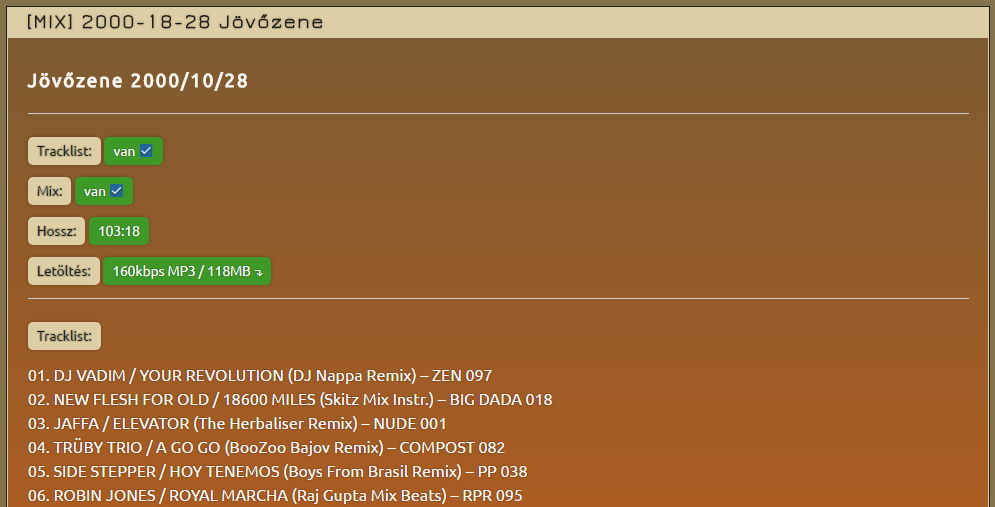
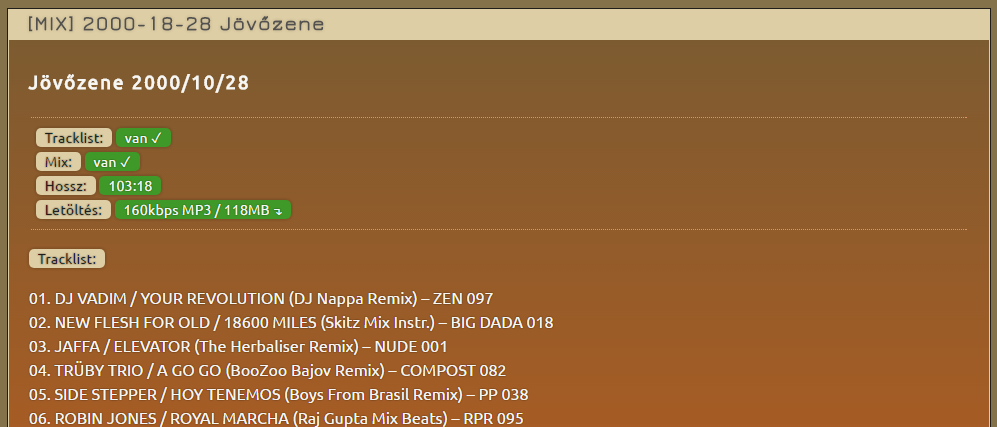
bejegyzes feljec + ikonok torolve

diff --git a/wp-theme/style.css b/wp-theme/style.css
@@ -18,4 +18,4 @@ Underscores is distributed under the terms of the GNU GPL v2 or later.
 
 Normalizing styles have been helped along thanks to the fine work of
 Nicolas Gallagher and Jonathan Neal http://necolas.github.com/normalize.css/
-*/html{font-family:sans-serif;-webkit-text-size-adjust:100%;-ms-text-size-adjust:100%}body{margin:0}article,aside,details,figcaption,figure,footer,header,main,menu,nav,section,summary{display:block}audio,canvas,progress,video{display:inline-block;vertical-align:baseline}audio:not([controls]){display:none;height:0}[hidden],template{display:none}a{background-color:transparent}a:active,a:hover{outline:0}abbr[title]{border-bottom:1px dotted}b,strong{font-weight:bold}dfn{font-style:italic}h1{font-size:2em;margin:0.67em 0}mark{background:#ff0;color:#000}small{font-size:80%}sub,sup{font-size:75%;line-height:0;position:relative;vertical-align:baseline}sup{top:-0.5em}sub{bottom:-0.25em}img{border:0}svg:not(:root){overflow:hidden}figure{margin:1em 40px}hr{box-sizing:content-box;height:0}pre{overflow:auto}code,kbd,pre,samp{font-family:monospace, monospace;font-size:1em}button,input,optgroup,select,textarea{color:inherit;font:inherit;margin:0}button{overflow:visible}button,select{text-transform:none}button,html input[type="button"],input[type="reset"],input[type="submit"]{-webkit-appearance:button;cursor:pointer}button[disabled],html input[disabled]{cursor:default}button::-moz-focus-inner,input::-moz-focus-inner{border:0;padding:0}input{line-height:normal}input[type="checkbox"],input[type="radio"]{box-sizing:border-box;padding:0}input[type="number"]::-webkit-inner-spin-button,input[type="number"]::-webkit-outer-spin-button{height:auto}input[type="search"]::-webkit-search-cancel-button,input[type="search"]::-webkit-search-decoration{-webkit-appearance:none}fieldset{border:1px solid #c0c0c0;margin:0 2px;padding:0.35em 0.625em 0.75em}legend{border:0;padding:0}textarea{overflow:auto}optgroup{font-weight:bold}table{border-collapse:collapse;border-spacing:0}td,th{padding:0}h3{font-family:'Ubuntu', sans-serif;letter-spacing:2px}body,button,input,select,textarea{color:#f6f6f4;font-family:sans-serif;font-size:16px;font-size:1rem;line-height:1.5}.site-title{font-family:'Russo One', sans-serif;font-size:3em;line-height:75px}.site-title a{color:#decea5;text-decoration:none;text-shadow:0 0 10px rgba(79,61,26,0.5),1px 1px 0 #4f3d1a}.site-title a:hover{color:#ece3cc}.site-title a:visited{color:#decea5}.site-description{line-height:1.25;font-size:1.5em;font-family:'Ubuntu', sans-serif;text-shadow:0 0 5px rgba(0,0,0,0.75);color:#ece3cc}.main-navigation{font-size:1.15em;font-family:'Jura', sans-serif;text-align:center;text-shadow:0 0 5px rgba(255,255,255,0.5)}.main-navigation ul a{color:#201e1a;text-shadow:0 0 5px rgba(0,0,0,0.25)}.main-navigation ul :hover>a,.main-navigation ul .focus>a{color:white}.main-navigation li:hover>a,.main-navigation li.focus>a{color:white}.main-navigation a{color:#201e1a;text-decoration:none}.page-header>h1{font-family:'Jura', sans-serif;color:#f6f6f4;letter-spacing:2px;font-size:1em;line-height:1}.title-highlight{text-shadow:0 0 5px #201e1a}.entry-title{font-size:1.25em;font-family:'Jura', sans-serif;color:#201e1a;text-shadow:0 0 5px rgba(0,0,0,0.15);letter-spacing:2px}.entry-title>a{display:block;text-decoration:none;color:#201e1a}.entry-title>a:visited{color:#52514f}.entry-title>a:hover{color:#e35e10}.entry-content p{font-family:'Ubuntu', sans-serif;text-shadow:0 0 2px rgba(0,0,0,0.5)}.entry-content .more-link{color:#52514f;background:#f6f6f4;border-radius:5px;padding:0.25% 1%;font-size:1.15em;font-weight:bolder;font-family:'Jura',sans-serif;text-shadow:none;text-decoration:none;text-shadow:0 0 5px rgba(0,0,0,0.15);transition:.15s;box-shadow:0 0 5px rgba(0,0,0,0.25)}.entry-content .more-link:hover{color:#f6f6f4;background:#e19464}h1,h2,h3,h4,h5,h6{clear:both}p{margin-bottom:1em}dfn,cite,em,i{font-style:italic}blockquote{margin:0 1.5em}address{margin:0 0 1.5em}pre{background:#eee;font-family:"Courier 10 Pitch",Courier,monospace;font-size:15px;font-size:.9375rem;line-height:1.6;margin-bottom:1.6em;max-width:100%;overflow:auto;padding:1.6em}code,kbd,tt,var{font-family:Monaco,Consolas,"Andale Mono","DejaVu Sans Mono",monospace;font-size:15px;font-size:.9375rem}abbr,acronym{border-bottom:1px dotted #666;cursor:help}mark,ins{background:#fff9c0;text-decoration:none}big{font-size:125%}html{box-sizing:border-box}*,*:before,*:after{box-sizing:inherit}body{background:#84734a}blockquote,q{quotes:"" ""}blockquote:before,blockquote:after,q:before,q:after{content:""}hr{background-color:#ccc;border:0;height:1px;margin-bottom:1.5em}ul,ol{margin:0 0 1.5em 3em}ul{list-style:disc}ol{list-style:decimal}li>ul,li>ol{margin-bottom:0;margin-left:1.5em}dt{font-weight:bold}dd{margin:0 1.5em 1.5em}img{height:auto;max-width:100%}figure{margin:1em 0}table{margin:0 0 1.5em;width:100%}button,input[type="button"],input[type="reset"]{border:1px solid;border-color:#ccc #ccc #bbb;border-radius:3px;background:#e6e6e6;color:rgba(0,0,0,0.8);font-size:12px;font-size:.75rem;line-height:1;padding:.6em 1em .4em}button:hover,input[type="button"]:hover,input[type="reset"]:hover{border-color:#ccc #bbb #aaa}button:active,button:focus,input[type="button"]:active,input[type="button"]:focus,input[type="reset"]:active,input[type="reset"]:focus{border-color:#aaa #bbb #bbb}input[type="submit"]{padding:1%;font-size:19.2px;font-size:1.2rem;transition:.15s;line-height:1;color:#4f3d1a;font-weight:bold;font-family:'Jura', sans-serif;letter-spacing:2px}input[type="submit"]:hover{color:white;background:#635128;border-color:#635128}input[type="submit"]:active,input[type="submit"]:focus{background:#84734a;border-color:#aaa #bbb #bbb;outline:none}input[type="text"],input[type="email"],input[type="url"],input[type="password"],input[type="number"],input[type="tel"],input[type="range"],input[type="date"],input[type="month"],input[type="week"],input[type="time"],input[type="datetime"],input[type="datetime-local"],input[type="color"],textarea{color:#666;border:1px solid #ccc;border-radius:3px;padding:3px}input[type="text"]:focus,input[type="email"]:focus,input[type="url"]:focus,input[type="password"]:focus,input[type="number"]:focus,input[type="tel"]:focus,input[type="range"]:focus,input[type="date"]:focus,input[type="month"]:focus,input[type="week"]:focus,input[type="time"]:focus,input[type="datetime"]:focus,input[type="datetime-local"]:focus,input[type="color"]:focus,textarea:focus{color:#111}select{border:1px solid #ccc}textarea{width:100%}.widget_search{margin:0;padding:0;text-align:center}.widget_search .search-form{padding:2%;margin:0}.widget_search .search-field{width:100%;padding:1%;background:#f6f6f4;border:3px solid #decea5;border-top-left-radius:5px;border-top-right-radius:5px;color:#e35e10;font-size:1em;letter-spacing:2px;font-family:'Jura', sans-serif;font-weight:bolder;text-shadow:0 0 5px rgba(0,0,0,0.15);text-align:center}.widget_search .search-submit{width:100%;background:#decea5;border:3px solid #decea5;border-bottom-left-radius:5px;border-bottom-right-radius:5px}a{color:#a56328}a:visited{color:purple}a:hover,a:focus,a:active{color:#191970}a:focus{outline:thin dotted}a:hover,a:active{outline:0}.main-navigation{clear:both;float:none;display:table;width:100%;background:rgba(79,61,26,0.15)}.main-navigation ul{display:none;width:100%;margin:0 auto;padding:0;list-style:none}.main-navigation ul ul{float:left;position:absolute;top:1.5em;left:-999em;z-index:99999}.main-navigation ul ul ul{left:-999em;top:0}.main-navigation ul ul li{background:#ECE3CC;border-radius:0;transition:.15s}.main-navigation ul ul li:first-child{border-top-right-radius:5px}.main-navigation ul ul li:last-child{border-bottom-left-radius:5px;border-bottom-right-radius:5px;border-bottom:1px solid #4f3d1a}.main-navigation ul ul li:hover>ul,.main-navigation ul ul li.focus>ul{left:100%}.main-navigation ul ul a{display:block;width:200px;transition:.15s}.main-navigation ul li:hover>ul,.main-navigation ul li.focus>ul{left:-1px}.main-navigation li{float:none;position:relative;display:inline-table;padding:0 1%;margin:0 0.5%;background:#decea5;border-top-left-radius:5px;border-top-right-radius:5px;border-top:1px solid rgba(190,183,172,0.25);transition:.15s}.main-navigation li:hover{background:#e35e10;border-top:1px solid rgba(190,183,172,0.25)}.main-navigation a{display:block}.post-navigation{padding:1%;font-size:1.25em;font-family:'Jura', sans-serif;background:#9f8a65}.post-navigation a{margin:auto;text-shadow:0 0 5px rba(0, 0, 0, 0.5);text-decoration:none;text-align:center;width:98%;background:#84734a;display:block;color:white}.post-navigation a:hover{background:#a56328}.menu-toggle,.main-navigation.toggled ul{display:block}@media screen and (min-width: 37.5em){.menu-toggle{display:none}.main-navigation ul{display:table}}.site-main .comment-navigation,.site-main .posts-navigation,.site-main .post-navigation{margin:0 0 1.5em;overflow:hidden}.comment-navigation .nav-previous,.posts-navigation .nav-previous,.post-navigation .nav-previous{float:left;width:50%}.comment-navigation .nav-next,.posts-navigation .nav-next,.post-navigation .nav-next{float:right;text-align:right;width:50%}.screen-reader-text{clip:rect(1px, 1px, 1px, 1px);position:absolute !important;height:1px;width:1px;overflow:hidden}.screen-reader-text:focus{background-color:#f1f1f1;border-radius:3px;box-shadow:0 0 2px 2px rgba(0,0,0,0.6);clip:auto !important;color:#21759b;display:block;font-size:14px;font-size:.875rem;font-weight:bold;height:auto;left:5px;line-height:normal;padding:15px 23px 14px;text-decoration:none;top:5px;width:auto;z-index:100000}#content[tabindex="-1"]:focus{outline:0}.alignleft{display:inline;float:left;margin-right:1.5em}.alignright{display:inline;float:right;margin-left:1.5em}.aligncenter{clear:both;display:block;margin-left:auto;margin-right:auto}.clear:before,.clear:after,.entry-content:before,.entry-content:after,.comment-content:before,.comment-content:after,.site-header:before,.site-header:after,.site-content:before,.site-content:after,.site-footer:before,.site-footer:after{content:"";display:table;table-layout:fixed}.clear:after,.entry-content:after,.comment-content:after,.site-header:after,.site-content:after,.site-footer:after{clear:both}.widget{margin:0;font-family:'Ubuntu', sans-serif;color:white;text-shadow:0 0 2px rgba(0,0,0,0.5)}.widget a{color:white;text-decoration:none}.widget select{max-width:100%}.widget ul{padding:0;margin:0;list-style:none}.widget ul li{border-bottom:1px dotted #decea5}.widget ul li:first-child{border-top:1px dotted #decea5}.widget ul li a{padding-left:2%;display:block;transition:.15s}.widget ul li a:hover{background:#e35e10}.widget-title{background:#decea5;color:#201e1a;border-top:1px dotted #9c8c63;border-bottom:1px dotted #9c8c63;text-align:center;text-shadow:0 0 5px rgba(32,30,26,0.25);font-family:'Jura', sans-serif;font-size:1.15em}.widget-area{margin-right:0.5%;margin-top:0.75%;width:24.5% !important}@media screen and (min-width: 1280px){.site-content{width:70%;margin:auto}}.content-area{float:left;margin:0 -25% 0 0;width:100%}.site-main{margin:0 25% 0 0}.site-content .widget-area{float:right;overflow:hidden;width:25%;background:repeating-linear-gradient(90deg, #9c8c63 2px, #9c8463 6px);border:1px solid #decea5}.site-footer{clear:both;width:100%;padding:1%;background:rgba(0,0,0,0.05);color:#f6f6f4;text-align:center;text-shadow:0 0 5px rgba(0,0,0,0.5);font-family:'Jura', sans-serif;font-size:1.15em}.site-footer a{padding:0.25% 0.5%;color:#ece3cc;text-decoration:none}.site-footer a:hover{background:#e35e10}.site-header{border-bottom:1px solid #decea5;box-shadow:0 1px 0 #4f3d1a;background:#84734a url(corsica-crop-h360.jpg) fixed no-repeat center 0}.site-branding{height:250px;text-align:center}.site-title{margin:0;padding:0;background:linear-gradient(to right, transparent, rgba(132,115,74,0.5), transparent)}.site-title a{width:100%;display:block;padding:0 2%;background:linear-gradient(to right, transparent, rgba(79,61,26,0.25), transparent);transition:.25s}.site-title a:hover{background:rgba(227,94,16,0.75)}.site-description{margin:0;padding:0;background:rgba(79,61,26,0.15)}.page-header{border-top:1px dotted #decea5;border-bottom:1px dotted #decea5;margin-bottom:1%}.page-header>h1{padding:0}.title-highlight{margin-top:0.1%;margin-bottom:0.1%;padding:0.5%;background:#e35e10}.entry-title{margin:0;padding-left:2%;background:transparent}.entry-summary{margin:0;color:#201e1a}.content-area{margin-top:0.75%;padding-left:0.5%;padding-right:1%}.entry-content{margin:0 !important;padding:1% 2%;background:linear-gradient(to bottom, #7d5b31, #e35e10);border:1px solid #decea5}.hentry{background:#decea5;border:1px solid #201e1a}.text-highlight{font-size:0.85em;padding:0.65% 1%;margin-bottom:1%;border-radius:5px;box-shadow:0 0 5px rgba(0,0,0,0.25)}.hi-lite-title{color:#201e1a;background:#decea5}.hi-lite-content{background:#decea5;color:#f6f6f4}.hi-lite-no{background:#B01515}.hi-lite-yes{background:#3F9928}.letoltes{text-decoration:none;color:#201e1a}.sticky{display:block}.hentry{margin:0 0 1.5em}.byline,.updated:not(.published){display:none}.single .byline,.group-blog .byline{display:inline}.page-content,.entry-content,.entry-summary{margin:1.5em 0 0}.page-links{clear:both;margin:0 0 1.5em}.comment-content a{word-wrap:break-word}.bypostauthor{display:block}.infinite-scroll .posts-navigation,.infinite-scroll.neverending .site-footer{display:none}.infinity-end.neverending .site-footer{display:block}.page-content .wp-smiley,.entry-content .wp-smiley,.comment-content .wp-smiley{border:none;margin-bottom:0;margin-top:0;padding:0}embed,iframe,object{max-width:100%}.wp-caption{margin-bottom:1.5em;max-width:100%}.wp-caption img[class*="wp-image-"]{display:block;margin-left:auto;margin-right:auto}.wp-caption .wp-caption-text{margin:0.8075em 0}.wp-caption-text{text-align:center}.gallery{margin-bottom:1.5em}.gallery-item{display:inline-block;text-align:center;vertical-align:top;width:100%}.gallery-columns-2 .gallery-item{max-width:50%}.gallery-columns-3 .gallery-item{max-width:33.33%}.gallery-columns-4 .gallery-item{max-width:25%}.gallery-columns-5 .gallery-item{max-width:20%}.gallery-columns-6 .gallery-item{max-width:16.66%}.gallery-columns-7 .gallery-item{max-width:14.28%}.gallery-columns-8 .gallery-item{max-width:12.5%}.gallery-columns-9 .gallery-item{max-width:11.11%}.gallery-caption{display:block}
+*/html{font-family:sans-serif;-webkit-text-size-adjust:100%;-ms-text-size-adjust:100%}body{margin:0}article,aside,details,figcaption,figure,footer,header,main,menu,nav,section,summary{display:block}audio,canvas,progress,video{display:inline-block;vertical-align:baseline}audio:not([controls]){display:none;height:0}[hidden],template{display:none}a{background-color:transparent}a:active,a:hover{outline:0}abbr[title]{border-bottom:1px dotted}b,strong{font-weight:bold}dfn{font-style:italic}h1{font-size:2em;margin:0.67em 0}mark{background:#ff0;color:#000}small{font-size:80%}sub,sup{font-size:75%;line-height:0;position:relative;vertical-align:baseline}sup{top:-0.5em}sub{bottom:-0.25em}img{border:0}svg:not(:root){overflow:hidden}figure{margin:1em 40px}hr{box-sizing:content-box;height:0}pre{overflow:auto}code,kbd,pre,samp{font-family:monospace, monospace;font-size:1em}button,input,optgroup,select,textarea{color:inherit;font:inherit;margin:0}button{overflow:visible}button,select{text-transform:none}button,html input[type="button"],input[type="reset"],input[type="submit"]{-webkit-appearance:button;cursor:pointer}button[disabled],html input[disabled]{cursor:default}button::-moz-focus-inner,input::-moz-focus-inner{border:0;padding:0}input{line-height:normal}input[type="checkbox"],input[type="radio"]{box-sizing:border-box;padding:0}input[type="number"]::-webkit-inner-spin-button,input[type="number"]::-webkit-outer-spin-button{height:auto}input[type="search"]::-webkit-search-cancel-button,input[type="search"]::-webkit-search-decoration{-webkit-appearance:none}fieldset{border:1px solid #c0c0c0;margin:0 2px;padding:0.35em 0.625em 0.75em}legend{border:0;padding:0}textarea{overflow:auto}optgroup{font-weight:bold}table{border-collapse:collapse;border-spacing:0}td,th{padding:0}h3{font-family:'Ubuntu', sans-serif;letter-spacing:2px}body,button,input,select,textarea{color:#f6f6f4;font-family:sans-serif;font-size:16px;font-size:1rem;line-height:1.5}.site-title{font-family:'Russo One', sans-serif;font-size:3em;line-height:75px}.site-title a{color:#decea5;text-decoration:none;text-shadow:0 0 10px rgba(79,61,26,0.5),1px 1px 0 #4f3d1a}.site-title a:hover{color:#ece3cc}.site-title a:visited{color:#decea5}.site-description{line-height:1.25;font-size:1.5em;font-family:'Ubuntu', sans-serif;text-shadow:0 0 5px rgba(0,0,0,0.75);color:#ece3cc}.main-navigation{font-size:1.15em;font-family:'Jura', sans-serif;text-align:center;text-shadow:0 0 5px rgba(255,255,255,0.5)}.main-navigation ul a{color:#201e1a;text-shadow:0 0 5px rgba(0,0,0,0.25)}.main-navigation ul :hover>a,.main-navigation ul .focus>a{color:white}.main-navigation li:hover>a,.main-navigation li.focus>a{color:white}.main-navigation a{color:#201e1a;text-decoration:none}.page-header>h1{font-family:'Jura', sans-serif;color:#f6f6f4;letter-spacing:2px;font-size:1em;line-height:1}.title-highlight{text-shadow:0 0 5px #201e1a}.entry-title{font-size:1.25em;font-family:'Jura', sans-serif;color:#201e1a;text-shadow:0 0 5px rgba(0,0,0,0.15);letter-spacing:2px}.entry-title>a{display:block;text-decoration:none;color:#201e1a}.entry-title>a:visited{color:#52514f}.entry-title>a:hover{color:#e35e10}.entry-content p{font-family:'Ubuntu', sans-serif;text-shadow:0 0 2px rgba(0,0,0,0.5)}.entry-content .more-link{color:#52514f;background:#f6f6f4;border-radius:5px;padding:0.25% 1%;font-size:1.15em;font-weight:bolder;font-family:'Jura',sans-serif;text-shadow:none;text-decoration:none;text-shadow:0 0 5px rgba(0,0,0,0.15);transition:.15s;box-shadow:0 0 5px rgba(0,0,0,0.25)}.entry-content .more-link:hover{color:#f6f6f4;background:#e19464}h1,h2,h3,h4,h5,h6{clear:both}p{margin-bottom:1em}dfn,cite,em,i{font-style:italic}blockquote{margin:0 1.5em}address{margin:0 0 1.5em}pre{background:#eee;font-family:"Courier 10 Pitch",Courier,monospace;font-size:15px;font-size:.9375rem;line-height:1.6;margin-bottom:1.6em;max-width:100%;overflow:auto;padding:1.6em}code,kbd,tt,var{font-family:Monaco,Consolas,"Andale Mono","DejaVu Sans Mono",monospace;font-size:15px;font-size:.9375rem}abbr,acronym{border-bottom:1px dotted #666;cursor:help}mark,ins{background:#fff9c0;text-decoration:none}big{font-size:125%}html{box-sizing:border-box}*,*:before,*:after{box-sizing:inherit}body{background:#84734a}blockquote,q{quotes:"" ""}blockquote:before,blockquote:after,q:before,q:after{content:""}hr{background-color:transparent;border:0;border-bottom:1px dotted #e19464;height:1px;margin:0.25%}ul,ol{margin:0 0 1.5em 3em}ul{list-style:disc}ol{list-style:decimal}li>ul,li>ol{margin-bottom:0;margin-left:1.5em}dt{font-weight:bold}dd{margin:0 1.5em 1.5em}img{height:auto;max-width:100%}figure{margin:1em 0}table{margin:0 0 1.5em;width:100%}button,input[type="button"],input[type="reset"]{border:1px solid;border-color:#ccc #ccc #bbb;border-radius:3px;background:#e6e6e6;color:rgba(0,0,0,0.8);font-size:12px;font-size:.75rem;line-height:1;padding:.6em 1em .4em}button:hover,input[type="button"]:hover,input[type="reset"]:hover{border-color:#ccc #bbb #aaa}button:active,button:focus,input[type="button"]:active,input[type="button"]:focus,input[type="reset"]:active,input[type="reset"]:focus{border-color:#aaa #bbb #bbb}input[type="submit"]{padding:1%;font-size:19.2px;font-size:1.2rem;transition:.15s;line-height:1;color:#4f3d1a;font-weight:bold;font-family:'Jura', sans-serif;letter-spacing:2px}input[type="submit"]:hover{color:white;background:#635128;border-color:#635128}input[type="submit"]:active,input[type="submit"]:focus{background:#84734a;border-color:#aaa #bbb #bbb;outline:none}input[type="text"],input[type="email"],input[type="url"],input[type="password"],input[type="number"],input[type="tel"],input[type="range"],input[type="date"],input[type="month"],input[type="week"],input[type="time"],input[type="datetime"],input[type="datetime-local"],input[type="color"],textarea{color:#666;border:1px solid #ccc;border-radius:3px;padding:3px}input[type="text"]:focus,input[type="email"]:focus,input[type="url"]:focus,input[type="password"]:focus,input[type="number"]:focus,input[type="tel"]:focus,input[type="range"]:focus,input[type="date"]:focus,input[type="month"]:focus,input[type="week"]:focus,input[type="time"]:focus,input[type="datetime"]:focus,input[type="datetime-local"]:focus,input[type="color"]:focus,textarea:focus{color:#111}select{border:1px solid #ccc}textarea{width:100%}.widget_search{margin:0;padding:0;text-align:center}.widget_search .search-form{padding:2%;margin:0}.widget_search .search-field{width:100%;padding:1%;background:#f6f6f4;border:3px solid #decea5;border-top-left-radius:5px;border-top-right-radius:5px;color:#e35e10;font-size:1em;letter-spacing:2px;font-family:'Jura', sans-serif;font-weight:bolder;text-shadow:0 0 5px rgba(0,0,0,0.15);text-align:center}.widget_search .search-submit{width:100%;background:#decea5;border:3px solid #decea5;border-bottom-left-radius:5px;border-bottom-right-radius:5px}a{color:#a56328}a:visited{color:purple}a:hover,a:focus,a:active{color:#191970}a:focus{outline:thin dotted}a:hover,a:active{outline:0}.main-navigation{clear:both;float:none;display:table;width:100%;background:rgba(79,61,26,0.15)}.main-navigation ul{display:none;width:100%;margin:0 auto;padding:0;list-style:none}.main-navigation ul ul{float:left;position:absolute;top:1.5em;left:-999em;z-index:99999}.main-navigation ul ul ul{left:-999em;top:0}.main-navigation ul ul li{background:#ECE3CC;border-radius:0;transition:.15s}.main-navigation ul ul li:first-child{border-top-right-radius:5px}.main-navigation ul ul li:last-child{border-bottom-left-radius:5px;border-bottom-right-radius:5px;border-bottom:1px solid #4f3d1a}.main-navigation ul ul li:hover>ul,.main-navigation ul ul li.focus>ul{left:100%}.main-navigation ul ul a{display:block;width:200px;transition:.15s}.main-navigation ul li:hover>ul,.main-navigation ul li.focus>ul{left:-1px}.main-navigation li{float:none;position:relative;display:inline-table;padding:0 1%;margin:0 0.5%;background:#decea5;border-top-left-radius:5px;border-top-right-radius:5px;border-top:1px solid rgba(190,183,172,0.25);transition:.15s}.main-navigation li:hover{background:#e35e10;border-top:1px solid rgba(190,183,172,0.25)}.main-navigation a{display:block}.post-navigation{padding:1%;font-size:1.25em;font-family:'Jura', sans-serif;background:#9f8a65}.post-navigation a{margin:auto;text-shadow:0 0 5px rba(0, 0, 0, 0.5);text-decoration:none;text-align:center;width:98%;background:#84734a;display:block;color:white}.post-navigation a:hover{background:#a56328}.menu-toggle,.main-navigation.toggled ul{display:block}@media screen and (min-width: 37.5em){.menu-toggle{display:none}.main-navigation ul{display:table}}.site-main .comment-navigation,.site-main .posts-navigation,.site-main .post-navigation{margin:0 0 1.5em;overflow:hidden}.comment-navigation .nav-previous,.posts-navigation .nav-previous,.post-navigation .nav-previous{float:left;width:50%}.comment-navigation .nav-next,.posts-navigation .nav-next,.post-navigation .nav-next{float:right;text-align:right;width:50%}.screen-reader-text{clip:rect(1px, 1px, 1px, 1px);position:absolute !important;height:1px;width:1px;overflow:hidden}.screen-reader-text:focus{background-color:#f1f1f1;border-radius:3px;box-shadow:0 0 2px 2px rgba(0,0,0,0.6);clip:auto !important;color:#21759b;display:block;font-size:14px;font-size:.875rem;font-weight:bold;height:auto;left:5px;line-height:normal;padding:15px 23px 14px;text-decoration:none;top:5px;width:auto;z-index:100000}#content[tabindex="-1"]:focus{outline:0}.alignleft{display:inline;float:left;margin-right:1.5em}.alignright{display:inline;float:right;margin-left:1.5em}.aligncenter{clear:both;display:block;margin-left:auto;margin-right:auto}.clear:before,.clear:after,.entry-content:before,.entry-content:after,.comment-content:before,.comment-content:after,.site-header:before,.site-header:after,.site-content:before,.site-content:after,.site-footer:before,.site-footer:after{content:"";display:table;table-layout:fixed}.clear:after,.entry-content:after,.comment-content:after,.site-header:after,.site-content:after,.site-footer:after{clear:both}.widget{margin:0;font-family:'Ubuntu', sans-serif;color:white;text-shadow:0 0 2px rgba(0,0,0,0.5)}.widget a{color:white;text-decoration:none}.widget select{max-width:100%}.widget ul{padding:0;margin:0;list-style:none}.widget ul li{border-bottom:1px dotted #decea5}.widget ul li:first-child{border-top:1px dotted #decea5}.widget ul li a{padding-left:2%;display:block;transition:.15s}.widget ul li a:hover{background:#e35e10}.widget-title{background:#decea5;color:#201e1a;border-top:1px dotted #9c8c63;border-bottom:1px dotted #9c8c63;text-align:center;text-shadow:0 0 5px rgba(32,30,26,0.25);font-family:'Jura', sans-serif;font-size:1.15em}.widget-area{margin-right:0.5%;margin-top:0.75%;width:24.5% !important}@media screen and (min-width: 1280px){.site-content{width:70%;margin:auto}}.content-area{float:left;margin:0 -25% 0 0;width:100%}.site-main{margin:0 25% 0 0}.site-content .widget-area{float:right;overflow:hidden;width:25%;background:repeating-linear-gradient(90deg, #9c8c63 2px, #9c8463 6px);border:1px solid #decea5}.site-footer{clear:both;width:100%;padding:1%;background:rgba(0,0,0,0.05);color:#f6f6f4;text-align:center;text-shadow:0 0 5px rgba(0,0,0,0.5);font-family:'Jura', sans-serif;font-size:1.15em}.site-footer a{padding:0.25% 0.5%;color:#ece3cc;text-decoration:none}.site-footer a:hover{background:#e35e10}.site-header{border-bottom:1px solid #decea5;box-shadow:0 1px 0 #4f3d1a;background:#84734a url(./images/corsica-crop-h360.jpg) fixed no-repeat center 0}.site-branding{height:250px;text-align:center}.site-title{margin:0;padding:0;background:linear-gradient(to right, transparent, rgba(132,115,74,0.5), transparent)}.site-title a{width:100%;display:block;padding:0 2%;background:linear-gradient(to right, transparent, rgba(79,61,26,0.25), transparent);transition:.25s}.site-title a:hover{background:rgba(227,94,16,0.75)}.site-description{margin:0;padding:0;background:rgba(79,61,26,0.15)}.page-header{border-top:1px dotted #decea5;border-bottom:1px dotted #decea5;margin-bottom:1%}.page-header>h1{padding:0}.title-highlight{margin-top:0.1%;margin-bottom:0.1%;padding:0.5%;background:#e35e10}.entry-title{margin:0;padding-left:2%;background:transparent}.entry-summary{margin:0;color:#201e1a}.content-area{margin-top:0.75%;padding-left:0.5%;padding-right:1%}.entry-content{margin:0 !important;padding:1% 2%;background:linear-gradient(to bottom, #7d5b31, #e35e10);border:1px solid #decea5}.hentry{background:#decea5;border:1px solid #201e1a}.entry-header-info{margin:0.75%}.text-highlight{font-size:0.9em;padding:0.2% 1%;border-radius:5px;box-shadow:0 0 5px rgba(0,0,0,0.25)}.hi-lite-title{color:#201e1a;background:#decea5}.hi-lite-content{background:#decea5;color:#f6f6f4}.hi-lite-no{background:#B01515}.hi-lite-yes{background:#3F9928}.letoltes{text-decoration:none;color:#201e1a}.sticky{display:block}.hentry{margin:0 0 1.5em}.byline,.updated:not(.published){display:none}.single .byline,.group-blog .byline{display:inline}.page-content,.entry-content,.entry-summary{margin:1.5em 0 0}.page-links{clear:both;margin:0 0 1.5em}.comment-content a{word-wrap:break-word}.bypostauthor{display:block}.infinite-scroll .posts-navigation,.infinite-scroll.neverending .site-footer{display:none}.infinity-end.neverending .site-footer{display:block}.page-content .wp-smiley,.entry-content .wp-smiley,.comment-content .wp-smiley{border:none;margin-bottom:0;margin-top:0;padding:0}embed,iframe,object{max-width:100%}.wp-caption{margin-bottom:1.5em;max-width:100%}.wp-caption img[class*="wp-image-"]{display:block;margin-left:auto;margin-right:auto}.wp-caption .wp-caption-text{margin:0.8075em 0}.wp-caption-text{text-align:center}.gallery{margin-bottom:1.5em}.gallery-item{display:inline-block;text-align:center;vertical-align:top;width:100%}.gallery-columns-2 .gallery-item{max-width:50%}.gallery-columns-3 .gallery-item{max-width:33.33%}.gallery-columns-4 .gallery-item{max-width:25%}.gallery-columns-5 .gallery-item{max-width:20%}.gallery-columns-6 .gallery-item{max-width:16.66%}.gallery-columns-7 .gallery-item{max-width:14.28%}.gallery-columns-8 .gallery-item{max-width:12.5%}.gallery-columns-9 .gallery-item{max-width:11.11%}.gallery-caption{display:block}

diff --git a/wp-theme/sass/layout/_content-sidebar.scss b/wp-theme/sass/layout/_content-sidebar.scss
@@ -62,7 +62,7 @@
   box-shadow: 0 1px 0 rgb(79,61,26);
   background:
     rgb(132,115,74)
-    url(corsica-crop-h360.jpg) fixed no-repeat center 0;
+    url(./images/corsica-crop-h360.jpg) fixed no-repeat center 0;
   }
 
 .site-branding {
@@ -156,6 +156,7 @@
     rgb(125,91,49),
     rgb(227,94,16));
   border: 1px solid rgb(222,206,165);
+  
   }
 
 .hentry {
@@ -163,10 +164,14 @@
   border: 1px solid rgb(32,30,26);
   }
 
+.entry-header-info {
+  margin: 0.75%;
+}
+
 .text-highlight {
-  font-size: 0.85em;
-  padding: 0.65% 1%;
-  margin-bottom: 1%;
+  font-size: 0.9em;
+  //font-weight: bolder;
+  padding: 0.2% 1%;
   border-radius: 5px;
   box-shadow: 0 0 5px rgba(0,0,0,0.25);
   }

diff --git a/wp-theme/sass/elements/_elements.scss b/wp-theme/sass/elements/_elements.scss
@@ -22,10 +22,11 @@ blockquote, q {
 }
 
 hr {
-	background-color: $color__background-hr;
-	border: 0;
+	background-color: transparent;
+  border: 0;
+	border-bottom: 1px dotted $orange-light;
 	height: 1px;
-	margin-bottom: 1.5em;
+	margin: 0.25%;
 }
 
 @import "lists";

diff --git a/entry-header-template.md b/entry-header-template.md
@@ -28,6 +28,8 @@ A bejegyzés címét H3 tag-ek közé tegyük.
 <h3>Bejegyzes cime</h3>
 
 <hr />
+
+<p class="entry-header-info">
 ```
 
 ---
@@ -42,14 +44,14 @@ a)
 
 ``` HTML
 
-<p><span class="text-highlight hi-lite-title">Tracklist:</span> <span class="text-highlight hi-lite-content hi-lite-yes">van &#9745;</span></p>
+<span class="text-highlight hi-lite-title">Tracklist:</span> <span class="text-highlight hi-lite-content hi-lite-yes">van &#10003;</span>
 
 ```
 
 b)
 
 ``` HTML
-<p><span class="text-highlight hi-lite-title">Tracklist:</span> <span class="text-highlight hi-lite-content hi-lite-no">nincs</span></p>
+<span class="text-highlight hi-lite-title">Tracklist:</span> <span class="text-highlight hi-lite-content hi-lite-no">nincs &#10008;</span>
 ```
 
 ---
@@ -63,24 +65,24 @@ b)
 a) Ha van elérhető mix, akkor írjuk be a **hosszát**, illesszük be a **fájl linkjét**, majd töltsük ki a **mintavételt**, **formátumot** és a **méretét** a fájlnak. A hosszt szimpla 'perc:másodperc' alapon adjuk meg. Mintavétel, formátum és fájlméret a következőképp néz ki: `128kbps MP3 / 118MB`.
 
 ``` HTML
-<p><span class="text-highlight hi-lite-title">Mix:</span> <span class="text-highlight hi-lite-content hi-lite-yes">van &#9745;</span></p>
+<span class="text-highlight hi-lite-title">Mix:</span> <span class="text-highlight hi-lite-content hi-lite-yes">van &#10003;</span>
 
-<p><span class="text-highlight hi-lite-title">Hossz:</span> <span class="text-highlight hi-lite-content hi-lite-yes">?</span></p>
+<span class="text-highlight hi-lite-title">Hossz:</span> <span class="text-highlight hi-lite-content hi-lite-yes">?</span>
 
-<p><span class="text-highlight hi-lite-title">Letöltés:</span> <a href="" class="letoltes"><span class="text-highlight hi-lite-content hi-lite-yes">?kbps MP3 / ?MB &#8628;</span></a></p>
+<span class="text-highlight hi-lite-title">Letöltés:</span> <a href="" class="letoltes"><span class="text-highlight hi-lite-content hi-lite-yes">?kbps MP3 / ?MB &#8628;</span></a>
 ```
 
 b) Ha nincs letölthető mix, ne jelenítsük meg feleslegesen a hossz és letöltés sorokat, csak annyit, hogy `nincs`.
 
 ``` HTML
-<p><span class="text-highlight hi-lite-title">Mix:</span> <span class="text-highlight hi-lite-content hi-lite-no">nincs</span></p>
+<span class="text-highlight hi-lite-title">Mix:</span> <span class="text-highlight hi-lite-content hi-lite-no">nincs &#10008;</span>
 ```
 
 ---
 
 **4. Fejléc záró**
 
-Választóvonal, tovább gomb, és tracklist fejléc. Ezután következik maga a tracklist.
+Választóvonal és tracklist fejléc. Ezután következik maga a tracklist.
 
 ``` HTML
 <hr />
@@ -101,17 +103,16 @@ Választóvonal, tovább gomb, és tracklist fejléc. Ezután következik maga a
 
 <hr />
 
-<p><span class="text-highlight hi-lite-title">Tracklist:</span> <span class="text-highlight hi-lite-content hi-lite-yes">van &#9745;</span></p>
+<p class="entry-header-info>
+<span class="text-highlight hi-lite-title">Tracklist:</span> <span class="text-highlight hi-lite-content hi-lite-yes">van &#10003;</span>
 
-<p><span class="text-highlight hi-lite-title">Mix:</span> <span class="text-highlight hi-lite-content hi-lite-yes">van &#9745;</span></p>
+<span class="text-highlight hi-lite-title">Mix:</span> <span class="text-highlight hi-lite-content hi-lite-yes">van &#10003;</span>
 
-<p><span class="text-highlight hi-lite-title">Hossz:</span> <span class="text-highlight hi-lite-content hi-lite-yes">103:18</span></p>
+<span class="text-highlight hi-lite-title">Hossz:</span> <span class="text-highlight hi-lite-content hi-lite-yes">103:18</span>
 
-<p><span class="text-highlight hi-lite-title">Letöltés:</span> <a class="letoltes" href=""><span class="text-highlight hi-lite-content hi-lite-yes">160kbps MP3 / 118MB &#8628;</span></a></p>
+<span class="text-highlight hi-lite-title">Letöltés:</span> <a class="letoltes" href=""><span class="text-highlight hi-lite-content hi-lite-yes">160kbps MP3 / 118MB &#8628;</span></a>
 
 <hr />
-
-<!--more-->
 
 <p><span class="text-highlight hi-lite-title">Tracklist:</span></p>
 ```
